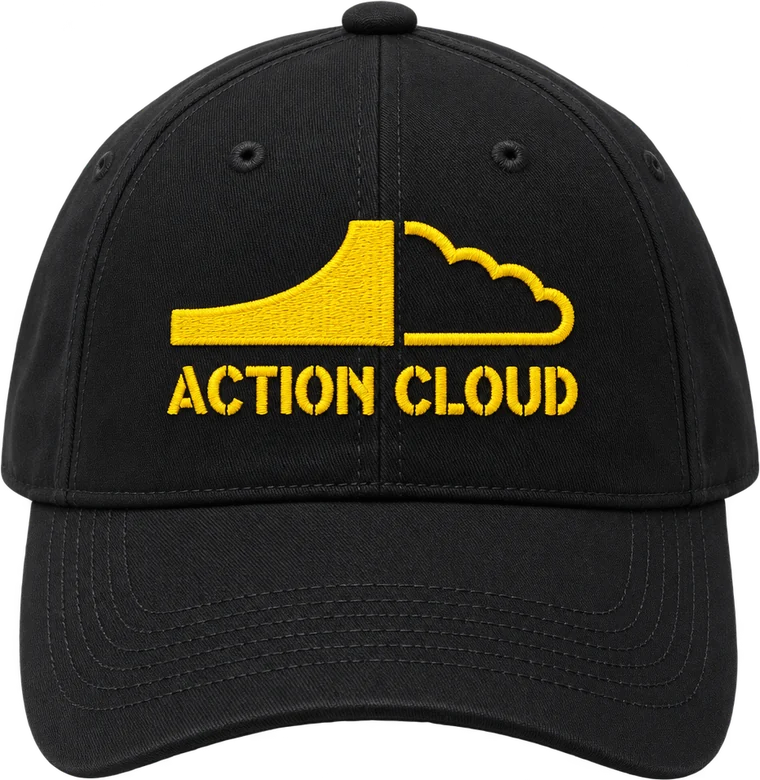
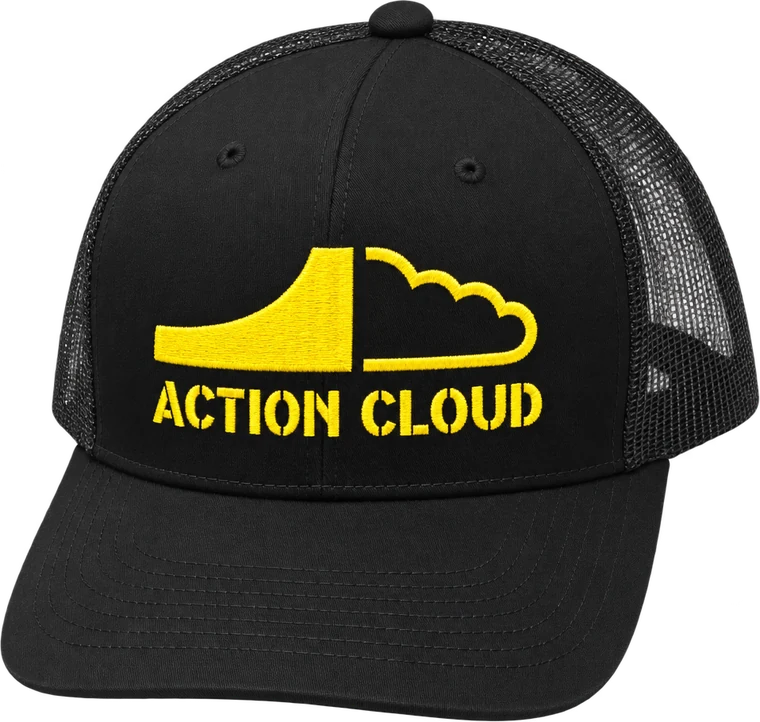
Match the cap to the real black trucker snapback
Claude-Session: https://claude.ai/code/session_018dMiRcxbsXFtZKHPbmYRzA

diff --git a/shop-config.js b/shop-config.js
@@ -42,11 +42,10 @@ window.SHOP = {
       name: "Coping cap",
       kind: "cap",
       price: 30,
-      blurb: "Six-panel, curved brim, embroidered Action Cloud mark. Adjustable strap.",
+      blurb: "Yupoong retro trucker snapback. Black front, black mesh back, yellow embroidered logo.",
       sizes: ["One size"],
       colors: [
-        { name: "Black", hex: "#141414" },
-        { name: "Yellow", hex: "#ECC820" }
+        { name: "Black", hex: "#141414" }
       ]
     },
     {
